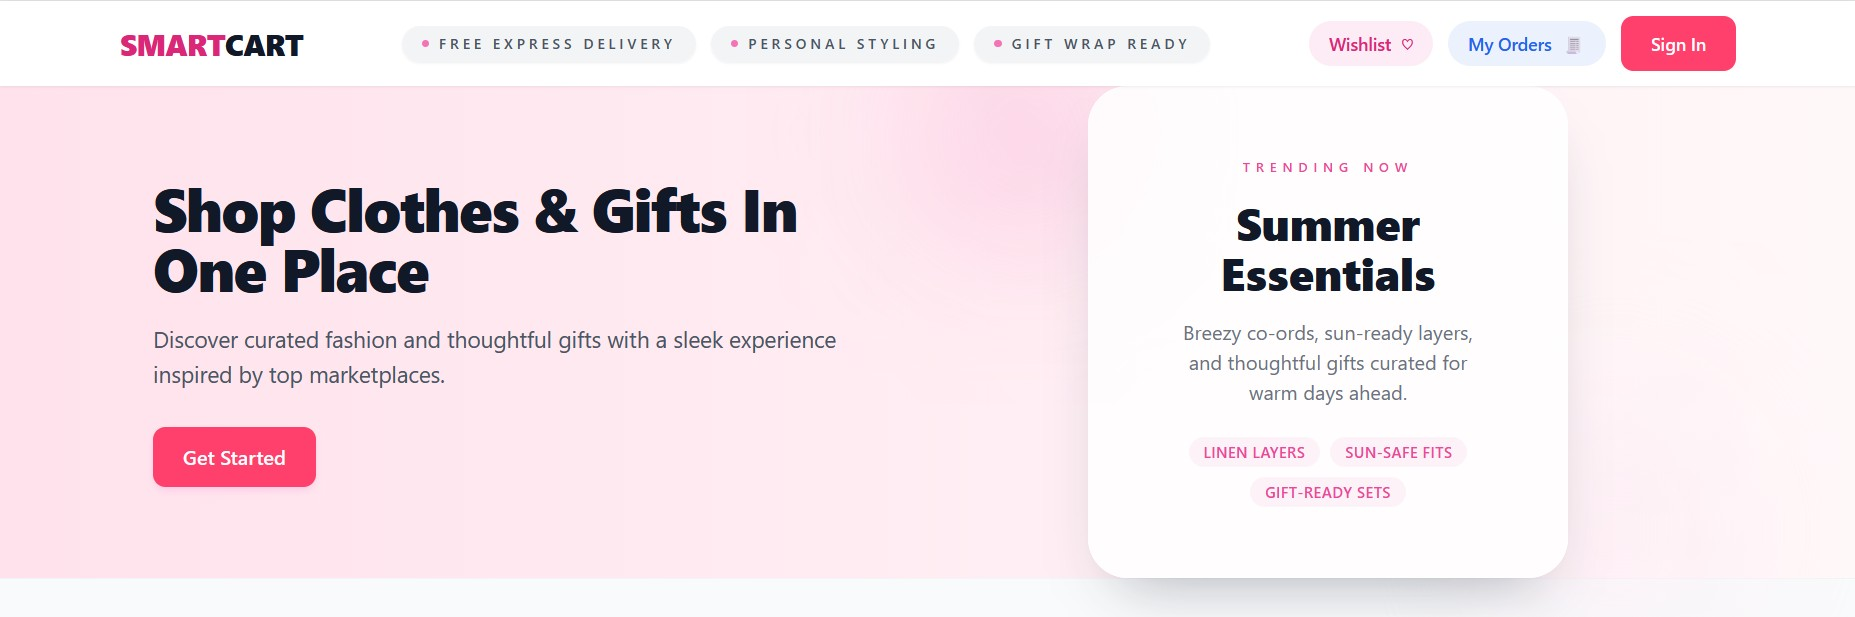
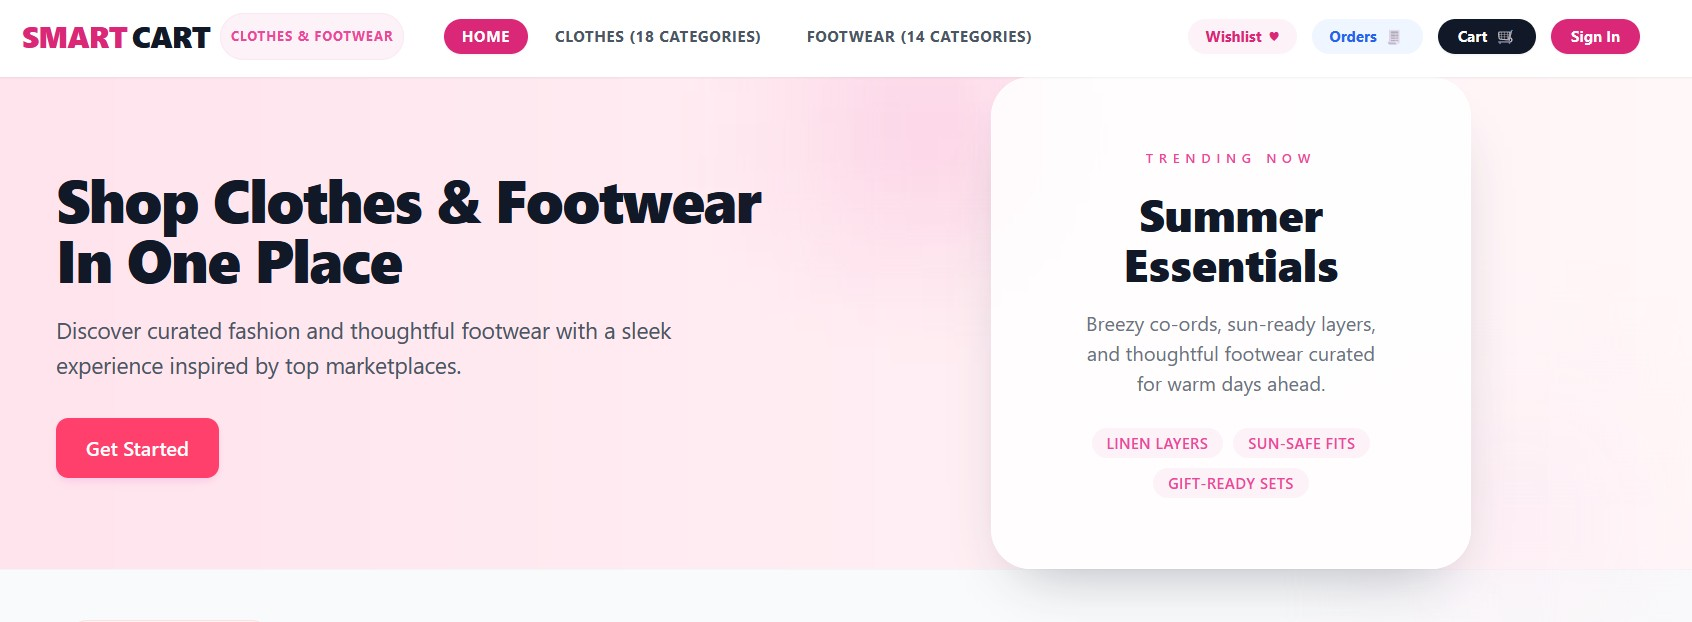
commit

diff --git a/index.html b/index.html
@@ -490,9 +490,9 @@
                     <div class="portfolio__content grid swiper-slide">
                         <img src="./packages/images/scag.jpg" alt="Smartcart Clothes Gifts" class="portfolio__img">
                         <div class="portfolio__data">
-                            <h3 class="portfolio__title">Smartcart-Clothes-Gifts</h3>
+                            <h3 class="portfolio__title">Smartcart-Clothes-Footwear</h3>
                             <p class="portfolio__description">
-                                An innovative online shopping platform for clothes and gifts with smart cart functionality. 
+                                An innovative online shopping platform for clothes and footwear with smart cart functionality. 
                                 Features a user-friendly interface with seamless checkout experience.
                             </p>
                             <div class="portfolio__links">
